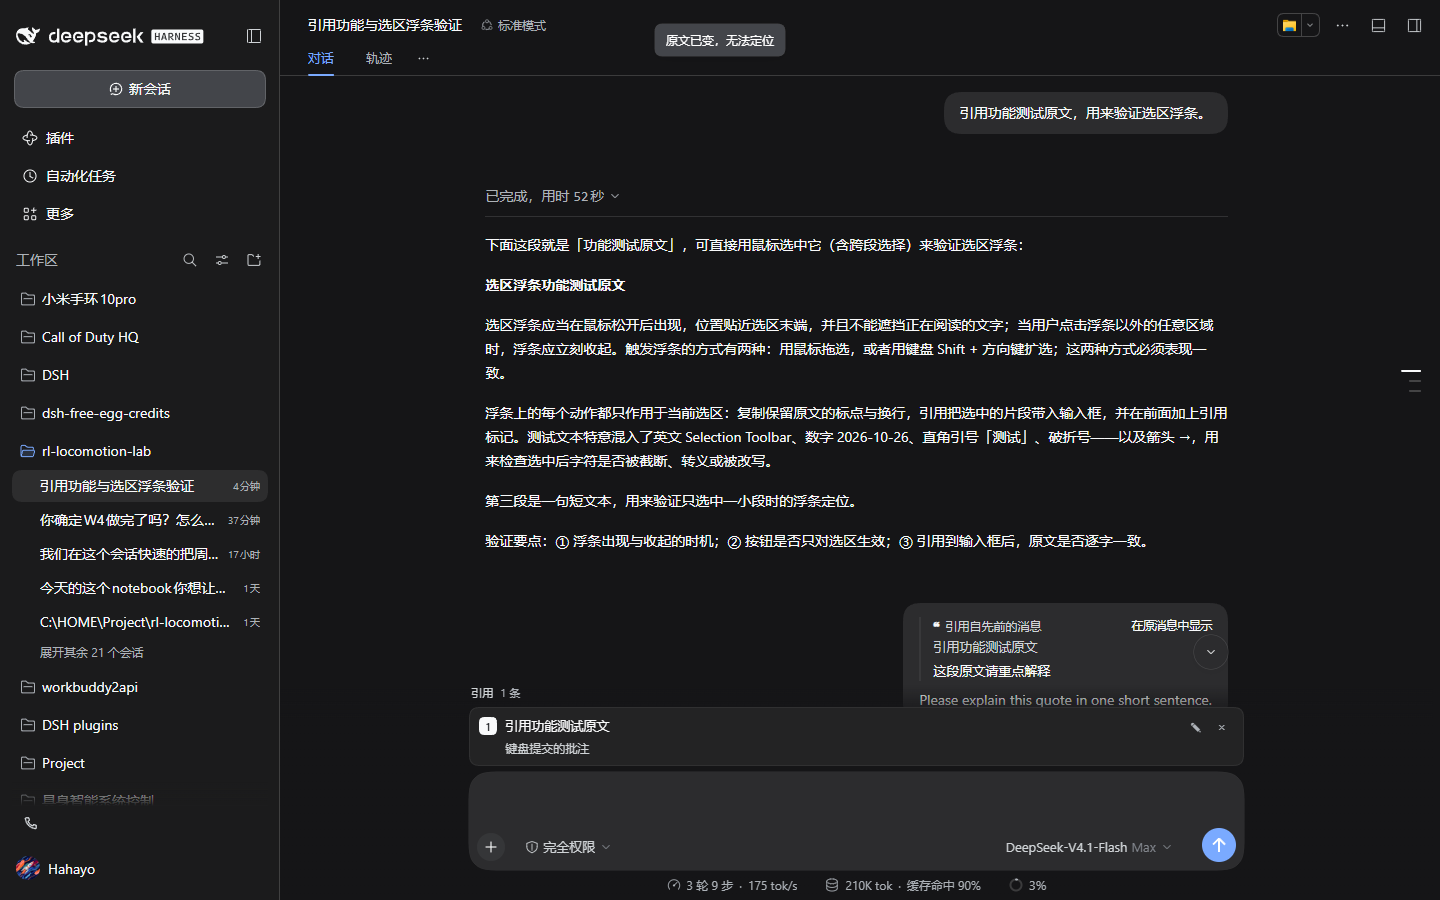
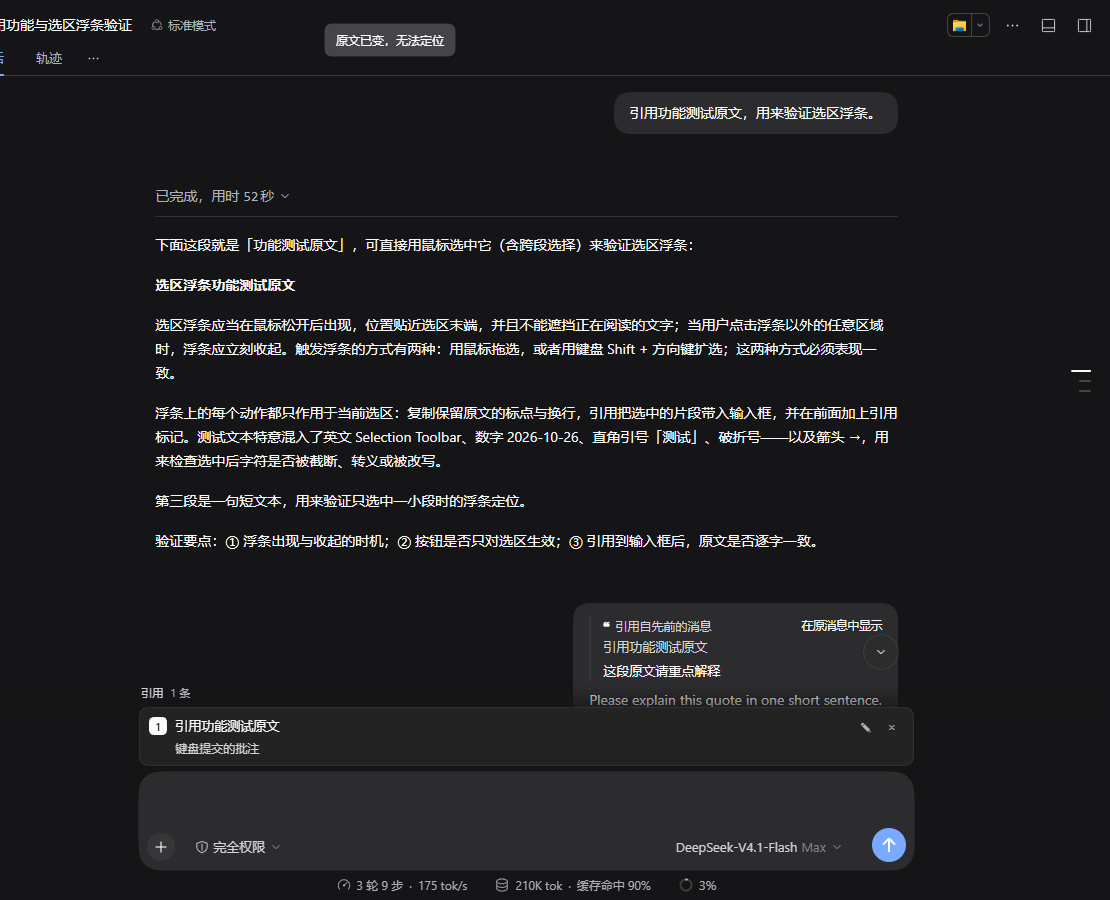
feat: 开源发布资产：DeepSeek 风格图标、界面案例与中英 README

diff --git a/README.en.md b/README.en.md
@@ -1,0 +1,88 @@
+<p align="center">
+  <img src="docs/screenshots/hero.png" alt="dsh-quote-context: quote a sentence, annotate it, and jump back to it later" width="100%">
+</p>
+
+# dsh-quote-context
+
+[![release](https://img.shields.io/github/v/release/Yhx888/dsh-quote-context?style=flat-square&color=4D6BFE)](https://github.com/Yhx888/dsh-quote-context/releases)
+[![license](https://img.shields.io/badge/license-MIT-4D6BFE?style=flat-square)](LICENSE)
+[![dsh](https://img.shields.io/badge/DSH-%E2%89%A5%200.2.1--rc.3-4D6BFE?style=flat-square)](package.json)
+
+> Select text in a DSH message → quote or comment → the quote waits in a dock above the composer → after sending, the message carries a “quoted from an earlier message” card that jumps back to the source and highlights it.
+
+[中文](README.md) · **English**
+
+A native DSH take on [OpenChamber](https://github.com/openchamber/openchamber)'s chat-quote pattern. It borrows DSH's composer card, brand blue, hairline borders, radii and type scale — not OpenChamber's skin.
+
+## Screens
+
+| 01 · Quote on selection | 02 · Comment in place |
+| --- | --- |
+| ![Selecting a sentence reveals Quote / Comment](docs/screenshots/01-selection.png) | ![The inline comment box](docs/screenshots/02-comment.png) |
+
+| 03 · Persistent quote dock | 04 · Jump back after sending |
+| --- | --- |
+| ![Quotes wait above the composer](docs/screenshots/03-dock.png) | ![Quote cards inside the sent message](docs/screenshots/04-message.png) |
+
+![Dark theme — built on DSH semantic CSS variables](docs/screenshots/05-dark.png)
+
+## Features
+
+- **Selection bar**: select text in any message; **Quote** / **Comment** appears. Esc or an outside click dismisses it.
+- **Comment**: inline textarea, Enter to submit, Shift+Enter for a newline; the quote and comment enter the dock together.
+- **Quote dock**: a persistent list above the composer (inserted before `[data-composer-card]`, so the composer never changes size). Each row = index + one-line source + comment + edit/remove; indices renumber after removal; clear-all is supported.
+- **Quote card after sending**: “Quoted from an earlier message” + source (4 lines folded by default) + comment + **Show in the original message**; the source scrolls into view and is highlighted.
+- **Survives reloads**: quote coordinates travel inside the message text, so a reloaded session still parses and jumps.
+- **Light / dark**: only DSH semantic CSS variables (`--dsw-alias-*`); no second palette.
+
+## Install
+
+Requires DSH `0.2.1-rc.3` (or compatible) and Node ≥ 18. Plain Node, no build step.
+
+```powershell
+dsh plugin --profile web add github:Yhx888/dsh-quote-context
+```
+
+Or install the release tarball:
+
+```powershell
+dsh plugin --profile web add https://github.com/Yhx888/dsh-quote-context/releases/download/v0.1.1/dsh-quote-context-0.1.1.tgz
+```
+
+Local development:
+
+```powershell
+dsh plugin --profile web add "link:C:/path/to/dsh-quote-context"
+```
+
+Desktop: the official desktop profile is managed by Electron; install the repository folder from the in-app Plugins page (or add it to `dsh.profile.bundles` through the profile's pnpm flow).
+
+## Wire format
+
+DSH messages are plain text. On send, the quote source expands each quote into:
+
+```text
+> ❝ first source line
+> second source line
+> ❞ first comment line
+> ※ │qc1:<base64url(JSON)>
+```
+
+The `※` line is the transport coordinate (stripped by the UI, still readable to the model). A failed parse keeps the text as-is and never blocks the send.
+
+## Compatibility
+
+- Target: DSH `0.2.1-rc.3` web client. DOM contract: `[data-conversation-content]`, `[data-conversation-session]`, `[data-chat-anchor-key]`, `[data-composer-card]`, `[data-composer-input]`.
+- Host services: `slots`, `locale`, `conversation.input` (quote chip), `inputTriggers` (send-time codec). If one is missing the action reports a failure instead of writing a half quote.
+- Does not share triggers/sources with the built-in `@` reference or `dsh-quote-deck`; both compete for the selection bar, so pick one.
+
+## Development
+
+```bash
+node --check lib/client.js
+npm test
+```
+
+## License
+
+MIT. Selection handling, wire format and the DOM test shim are reused from [dsh-quote-deck](https://github.com/YHX/dsh-quote-deck) (MIT, forked from `dsh-client-ui-quote`); interaction references [OpenChamber](https://github.com/openchamber/openchamber).

diff --git a/README.md b/README.md
@@ -1,8 +1,31 @@
+<p align="center">
+  <img src="docs/screenshots/hero.png" alt="dsh-quote-context：在 DSH 里选中一句话，引用、批注，发送后仍能跳回原文" width="100%">
+</p>
+
 # dsh-quote-context
+
+[![release](https://img.shields.io/github/v/release/Yhx888/dsh-quote-context?style=flat-square&color=4D6BFE)](https://github.com/Yhx888/dsh-quote-context/releases)
+[![license](https://img.shields.io/badge/license-MIT-4D6BFE?style=flat-square)](LICENSE)
+[![dsh](https://img.shields.io/badge/DSH-%E2%89%A5%200.2.1--rc.3-4D6BFE?style=flat-square)](package.json)
+[![stars](https://img.shields.io/github/stars/Yhx888/dsh-quote-context?style=flat-square&color=4D6BFE)](https://github.com/Yhx888/dsh-quote-context)
 
 > 在 DSH 聊天里选中一段文字 → 引用或评论 → 引用进入输入卡上方的常驻引用区 → 发送后消息里出现「引用自先前的消息」引用块，可一键跳回原文并高亮。
 
+**中文** · [English](README.en.md)
+
 这是 [OpenChamber](https://github.com/openchamber/openchamber) 聊天引用模式的 DSH 原生复刻。视觉沿用 DSH 的输入卡、品牌蓝、发丝线、圆角与字号，不搬运 OpenChamber 的外观。
+
+## 界面
+
+| 01 · 划词即引 | 02 · 就地批注 |
+| --- | --- |
+| ![在消息正文里选中一句，浮出「引用 / 评论」](docs/screenshots/01-selection.png) | ![浮层内联成评论框，写一句批注](docs/screenshots/02-comment.png) |
+
+| 03 · 常驻引用区 | 04 · 发送后可跳回 |
+| --- | --- |
+| ![引用与批注停在输入卡上方，可编辑、可删除](docs/screenshots/03-dock.png) | ![消息内渲染引用块，点击回到原消息](docs/screenshots/04-message.png) |
+
+![深色主题：只使用 DSH 语义 CSS 变量，浅色与深色自动适配](docs/screenshots/05-dark.png)
 
 ## 特性
 
@@ -18,15 +41,29 @@
 
 要求 DSH `0.2.1-rc.3` 或兼容版本、Node ≥ 18。纯 Node 实现，无构建链。
 
-Web profile（开发/验证）：
+从 GitHub 安装：
 
 ```powershell
-dsh plugin --profile web add "link:C:/HOME/Project/DSH plugins/dsh-quote-context"
+dsh plugin --profile web add github:Yhx888/dsh-quote-context
 ```
 
-> 路径含空格时直接使用空格；本机 pnpm 11 会把 `%20` 当字面量目录，不要编码。
+从 Release tarball 安装：
 
-挂载后会通过包内 `cordis.patch.yml` 插入 `quote-context` Loader 行。桌面端 profile 由 Electron 独占管理，安装前先征询用户；本版只做文件级验证（见 `docs/verification.md`）。
+```powershell
+dsh plugin --profile web add https://github.com/Yhx888/dsh-quote-context/releases/download/v0.1.1/dsh-quote-context-0.1.1.tgz
+```
+
+本地开发（link）：
+
+```powershell
+dsh plugin --profile web add "link:C:/path/to/dsh-quote-context"
+```
+
+> 路径含空格时直接使用空格；pnpm 11 会把 `%20` 当字面量目录，不要编码。
+
+桌面端：官方桌面端的 profile 由 Electron 独占管理，CLI 不直接写入；在应用内「插件」页从本仓库目录安装，或按 profile 的 pnpm 流程加入 `dsh.profile.bundles`。
+
+挂载后会通过包内 `cordis.patch.yml` 插入 `quote-context` Loader 行。验证记录见 [docs/verification.md](docs/verification.md)。
 
 ## 使用
 

diff --git a/docs/screenshots/README.md b/docs/screenshots/README.md
@@ -1,0 +1,18 @@
+# 截图资产
+
+## 当前发布用图（2026-10-27）
+
+| 文件 | 内容 |
+| --- | --- |
+| `hero.png` | 1600×900 发布主图：图标、主张、真实界面引用区 |
+| `01-selection.png` | 划词浮条：选中一句，浮出「引用 / 评论」 |
+| `02-comment.png` | 就地批注：浮层内联评论框 |
+| `03-dock.png` | 常驻引用区：序号、原文、批注、编辑/删除 |
+| `04-message.png` | 发送后的引用块与「在原消息中显示」 |
+| `05-dark.png` | 深色主题下的引用块 |
+
+这些图来自隔离 DSH 实例（临时 `DSH_HOME`、独立端口、演示工作区），用真实模型对话采集，侧栏与文件名均为演示内容，不含个人工作区。
+
+## 旧版验证证据
+
+`selection-bar.png`、`quote-dock.png`、`message-quote.png`、`multi-quote-real.png`、`design-light.png`、`design-dark.png`、`dark-theme.png`、`final-e2e.png`、`p1-page.png` 是 0.1.0 开发期的页面证据，已在 0.1.1 裁掉左侧栏（去掉个人工作区名称），保留作 [verification.md](../verification.md) 的对照。

diff --git a/CHANGELOG.md b/CHANGELOG.md
@@ -1,5 +1,21 @@
 # CHANGELOG
 
+## 0.1.1 — 2026-10-27
+
+开源发布与视觉资产。
+
+### 新增
+
+- 重绘图标：深墨蓝渐变底、内层玻璃卡片、品牌蓝引用竖线与引号，16–512px 全套 PNG（`docs/assets/`）。
+- 五张界面案例与一张 Hero 图（`docs/screenshots/`），覆盖划词、批注、引用区、发送后引用块、深色主题；截图在隔离实例中用真实模型对话重新采集，不含个人工作区内容。
+- 中英双 README（`README.md` / `README.en.md`），补安装、界面、兼容性与线格式说明。
+- 增加 Release tarball 安装路径与 v0.1.1 发布包。
+
+### 变更
+
+- `engines.dsh` 收敛到已验证的 `>=0.2.1-rc.3`。
+- package 元数据补 `README.en.md` 与图标 PNG 资产。
+
 ## 0.1.0 — 2026-10-26
 
 首个可验证版本（P0-P6 开发线）。
